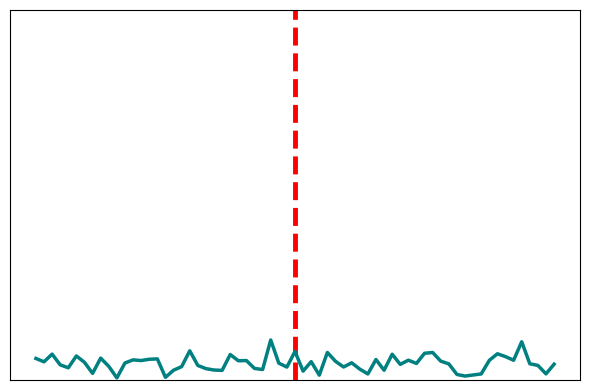
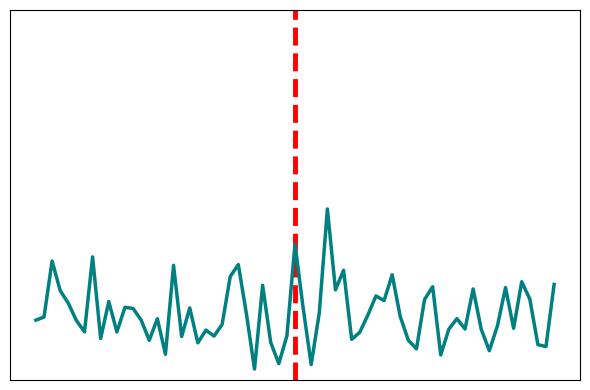
PU 94%

Changed region(s): [[0.061, 0.5231, 0.9458, 0.9846]]

diff --git a/fault_diagnosis_pipeline/multimodal_diagnosis.py b/fault_diagnosis_pipeline/multimodal_diagnosis.py
@@ -1,6 +1,6 @@
 import numpy as np
 import scipy.io as sio
-from scipy.signal import hilbert, detrend, stft, butter, sosfiltfilt, find_peaks
+from scipy.signal import hilbert, detrend, stft, butter, sosfiltfilt, find_peaks, decimate
 from scipy.fft import rfft, rfftfreq
 from scipy.stats import kurtosis
 import matplotlib.pyplot as plt
@@ -19,6 +19,26 @@ def load_mat_file(filepath):
         raise ValueError("Could not find 'DE' key in mat file.")
     signal = data[de_key].flatten()
     return signal
+
+
+
+def apply_bandpass(signal, fs, lowcut=2000.0, highcut=10000.0, order=4):
+    nyq = 0.5 * fs
+    # Ensure frequencies are within valid bounds
+    lowcut = max(1.0, lowcut)
+    highcut = min(nyq - 1.0, highcut)
+    
+    # Normalize the frequencies
+    low = lowcut / nyq
+    high = highcut / nyq
+    
+    # Design the filter
+    # btype='band' creates the band-pass logic
+    sos = butter(order, [low, high], btype='band', output='sos')
+    
+    # Apply the filter
+    filtered_sig = sosfiltfilt(sos, signal)
+    return filtered_sig
 
 
 def calculate_kinematics(rpm, location="DE", contact_angle=0):
@@ -263,9 +283,9 @@ def parse_llm_diagnosis(response_text):
         return 'UNDIAGNOSABLE'
     
     fault_type = 'UNKNOWN_FAULT'
-    if 'BALL' in text or 'BSF' in text or 'ROLLING ELEMENT' in text:
-        fault_type = 'BALL'
-    elif 'INNER' in text or 'BPFI' in text or 'IR' in text:
+    #if 'BALL' in text or 'BSF' in text or 'ROLLING ELEMENT' in text:
+    #    fault_type = 'BALL'
+    if 'INNER' in text or 'BPFI' in text or 'IR' in text:
         fault_type = 'INNER_RACE'
     elif 'OUTER' in text or 'BPFO' in text or 'OR' in text:
         fault_type = 'OUTER_RACE'
@@ -276,12 +296,12 @@ def evaluate_single_harmonic_with_llm(b64_image, image_filename, numerical_conte
     Sends the specific generated harmonic plot to Gemma for diagnostic evaluation.
     """
     prompt_string = (
-        f"- If a massive peak perfectly aligns directly on top of the red dashed line: 1\n"
-        "- If the peak is misaligned, ambiguous, or just background noise: 0\n"
-        "- If there is NO peak, or the signal is totally flat at that marker: -1\n"
-        "CRITICAL RULE: Assume NO PEAK by default. Only award 1 if the alignment is exceptionally obvious and undeniable. You must penalize (-1) for missing peaks. Do NOT hallucinate data.\n"
+        f"- If a massive peak approximately aligns with the red dashed line: 1\n"
+        "- If the peak is clearly misaligned, ambiguous, or just background noise: 0\n"
+        #"- If there is NO peak, or the signal is totally flat near that marker: -1\n"
+        #"CRITICAL RULE: Assume NO PEAK by default. Only award 1 if the alignment is exceptionally obvious and undeniable. You must penalize (-1) for missing peaks. Do NOT hallucinate data.\n"
         "Output your final evaluation EXACTLY in this format on the very last line:\n"
-        "SCORE: [Score from -1 to 1]"
+        "SCORE: [Score from 0 to 1]"
     )
     
     print(f"========== SUPERVISION: DATA SENT TO AI ({phase_name} / {target_fault} / {harmonic}x) ==========")
@@ -321,12 +341,16 @@ def run_full_diagnosis_pipeline(target_mat_file, location=None, target_phase=Non
         df = pd.read_parquet(target_mat_file)
         #row = df.iloc[measurement_index]
         row = df.iloc[measurement_index]
-        df_filtered = df[(df["nominal_speed"] == 900)]
+        df_filtered = df[(df["nominal_speed"] == 1500)]
         row = df_filtered.iloc[0]
         sig_test = row['vibration']
         fs = 64000  # Paderborn dataset sampling frequency
+        downsample_factor = fs // 12000
+        sig_test = decimate(sig_test, q=downsample_factor, ftype='iir')
+        fs = fs // downsample_factor
         rpm = float(row['speed'].mean())
         theoretical_rpm = float(row['nominal_speed'])
+        sig_for_envelope = apply_bandpass(sig_test, fs, lowcut=2000, highcut=10000)
         basename = os.path.basename(target_mat_file).replace('.parquet', '')
         
         if location is None:
@@ -397,6 +421,7 @@ def run_full_diagnosis_pipeline(target_mat_file, location=None, target_phase=Non
     sig_test_sk, opt_fc_test, sk_path_test = run_spectral_kurtosis_and_filter(sig_test, fs, os.path.join(output_dir, "sk_test.png"))
     
     fault_order = [("BSF", "BALL"), ("BPFO", "OUTER_RACE"), ("BPFI", "INNER_RACE")]
+    fault_order = [("BPFO", "OUTER_RACE"), ("BPFI", "INNER_RACE")]
     
     def extract_confidence(diag_text):
         match = re.search(r"SCORE:\s*(-?\d+)", diag_text.upper())

diff --git a/fault_diagnosis_pipeline/evaluate_vlm.py b/fault_diagnosis_pipeline/evaluate_vlm.py
@@ -5,8 +5,8 @@ import argparse
 from multimodal_diagnosis import run_full_diagnosis_pipeline, parse_llm_diagnosis
 
 def print_confusion_matrix(y_true, y_pred):
-    classes_true = ["HEALTHY", "BALL", "INNER_RACE", "OUTER_RACE"]
-    classes_pred = ["HEALTHY", "BALL", "INNER_RACE", "OUTER_RACE", "UNDIAGNOSABLE"]
+    classes_true = ["HEALTHY", "INNER_RACE", "OUTER_RACE"]
+    classes_pred = ["HEALTHY", "INNER_RACE", "OUTER_RACE"]
     print("\n" + "="*70)
     print("CONFUSION MATRIX (Row=Ground Truth, Col=Predicted)")
     print("="*70)
@@ -44,9 +44,9 @@ def determine_ground_truth(filename):
     basename_no_ext = basename.replace('.parquet', '')
     if basename_no_ext.startswith('k0'):
         return 'HEALTHY'
-    elif basename_no_ext in ['ka01', 'ka03', 'ka05', 'ka06', 'ka07', 'ki01', 'ki03', 'ki05', 'ki07']:
+    elif basename_no_ext.startswith('ka'):
         return 'OUTER_RACE'
-    elif basename_no_ext in ['ka04', 'ka08', 'ka09', 'ki04', 'ki08']:
+    elif basename_no_ext.startswith('ki'):
         return 'INNER_RACE'
         
     return 'UNKNOWN'
@@ -154,7 +154,7 @@ def run_evaluation(filter_file=None, target_phase=None):
                 kwargs = {'target_phase': target_phase, 'output_dir': out_dir}
                 if dataset_type == 'PU':
                     kwargs['location'] = 'PU'
-                    kwargs['measurement_index'] = 0
+                    kwargs['measurement_index'] = 10
                     
                 raw_diag = run_full_diagnosis_pipeline(filepath, **kwargs)
                 predicted = parse_llm_diagnosis(raw_diag)
